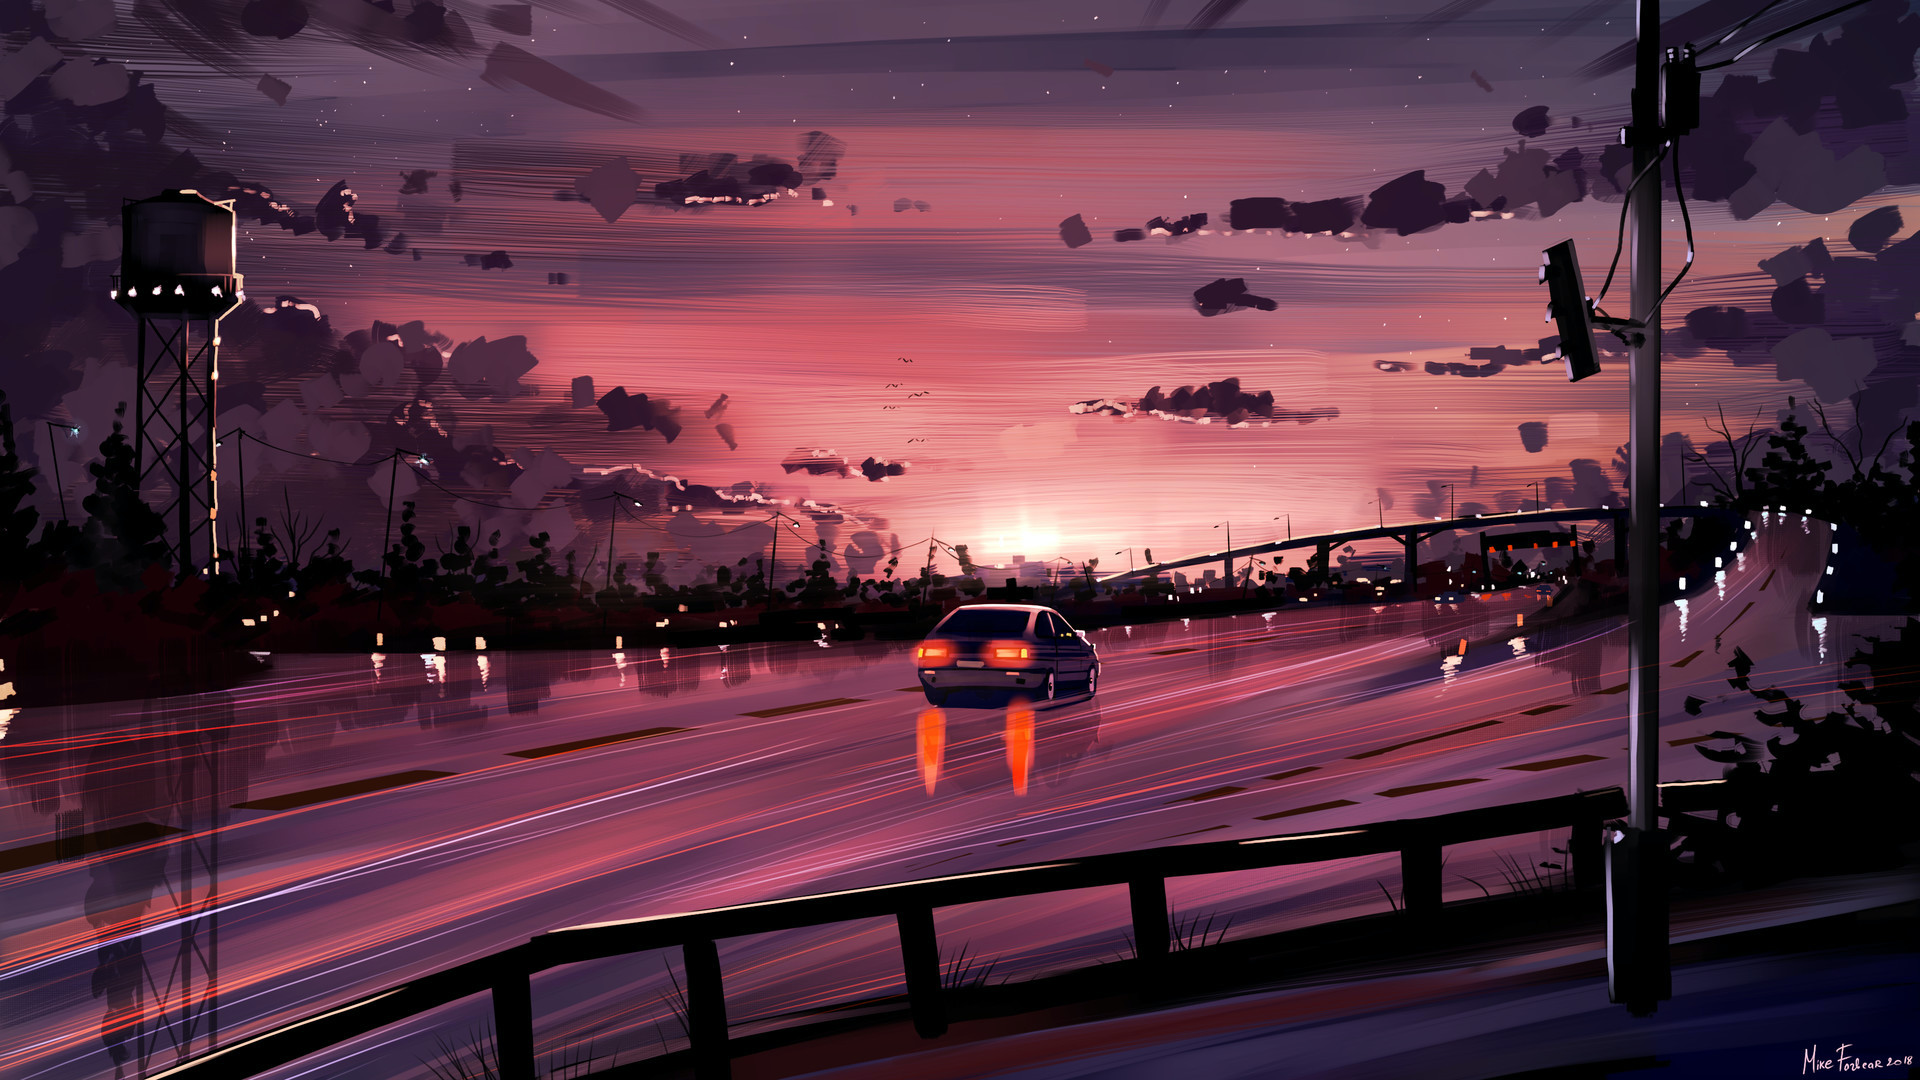
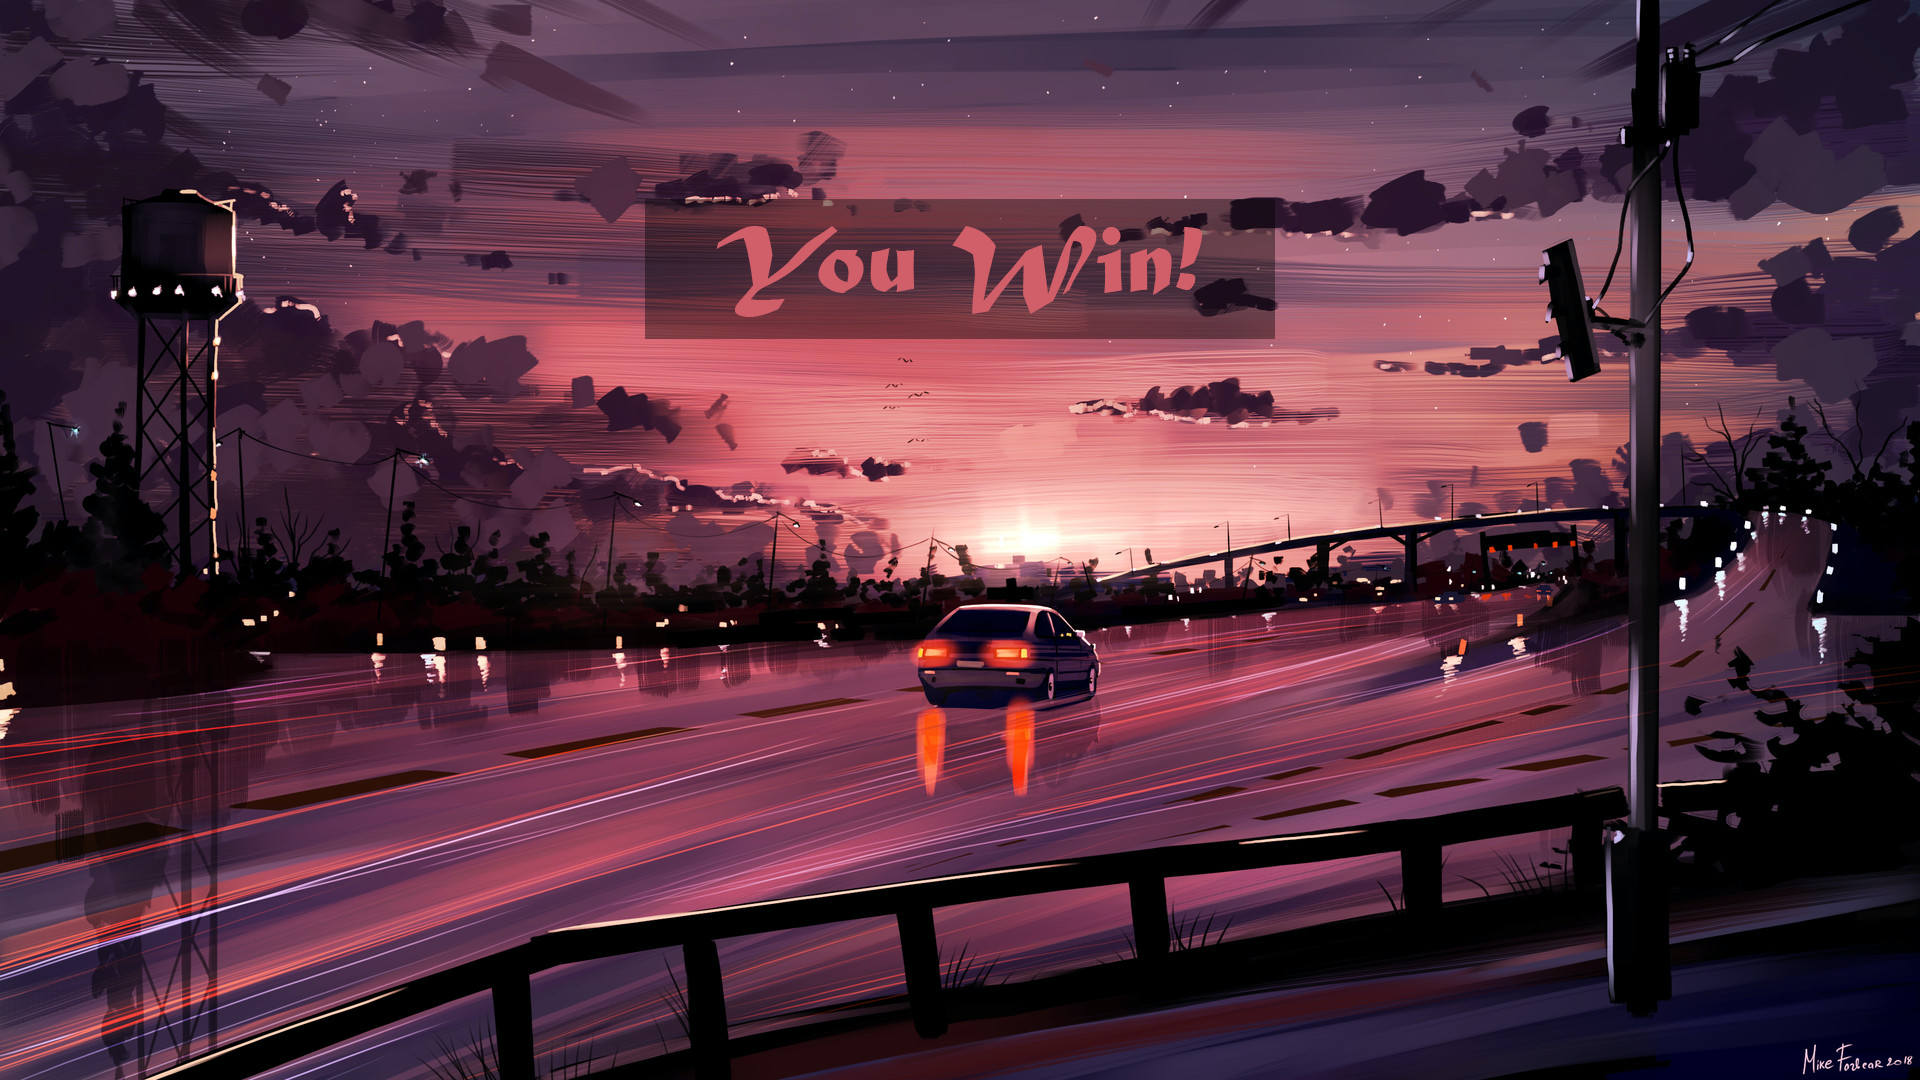
start of final project

Changed region(s): [[0.3125, 0.1833, 0.6875, 0.3361]]

diff --git a/w8/style.css b/w8/style.css
@@ -1,5 +1,7 @@
 @charset "UTF-8";
-@import url('https://fonts.googleapis.com/css2?family=Rubik+Moonrocks&display=swap');
+
+@import url('https://fonts.googleapis.com/css2?family=Grape+Nuts&display=swap');
+
 html{
     margin:0;
 }
@@ -9,40 +11,54 @@ body{
     display:flex;
     flex-direction: row;
     justify-content: center;
-    align-items: flex-start;
-    background-image:url(images/macho.webp);
-    background-repeat:no-repeat;
+    background-image: url(images/grassyBackground.png);
     background-size: 100%;
+    background-repeat: no-repeat;
 }
+
+div{
+    border-width: 2px;
+    border-color: black;
+    border-style: solid;
+
+    padding-top: 10px;
+    padding-bottom: 10px;
+    padding-left: 10px;
+    padding-right: 10px;
+
+    margin: 20px;
+}
+
 #main{
-    background-color:#ffff00;
-    color:rgb(255, 137, 2);
-    width:950px;
-    padding:20px;
+    background-color: whitesmoke;
+    color: black;
+    width: 1000px;
 }
+
 #header{
-    background-color:aqua;
+    background-color: lightgreen;
+    color: black;
 }
 #nav{
-    background-color:lime;
-    display:flex;
-    justify-content:center;
-    background-image:url(images/macho.webp);
-    
+    background-color: lightskyblue;
+    color: black;
 }
 #content{
-    background-color:blue;
+    background-color: wheat;
+    background-image: url(images/grass.png);
+    color: black;
+    display:flex;
 }
-
 #footer{
-    background-color:aqua;
+    background-color: rgb(255, 255, 109);
+    color: black;
 }
-
 a{
+    display:flex;
     display:block;
-    margin-left:10px;
-    margin-right:10px;
-    background-color:bisque;
+    margin-left: 10px;
+    margin-right: 10px;
+    background-color: bisque;
     padding:10px;
     border-radius:10px;
 }
@@ -50,27 +66,21 @@ a:link{
     color:black;
 }
 a:visited{
-    color:black;
+    color:white;
 }
 a:hover{
-    color:cornflowerblue;
-    background-color:brown;
+    color:limegreen;
 }
 a:active{
-    color:cornflowerblue;
+    color:red;
 }
 
-h1{
+h2{
     color:black;
-    text-decoration:underline;
+    text-decoration: underline;
     font-size:36px;
     font-weight:normal;
-    font-style:italic;
-    font-family: 'Rubik Moonrocks', cursive;
-}
-
-canvas{
-    //background-image:url(images/road.png);
+    font-family: 'Grape Nuts', cursive;
 }
 
 .graphic {

diff --git a/w8/index.html b/w8/index.html
@@ -1,33 +1,40 @@
 <!doctype html>
 <html lang="en">
     <head>
-        <title>Week 4 Canvas</title>
+        <title>Week 8-10 Final Project</title>
         <meta charset="UTF-8">
-        <meta name="author" content="Jay Aguiar">
-        <meta name="Description" content="In class work">
+        <meta name="author" content="Jonathan Monteiro">
+        <meta name="Description" content="Final Project for HTML">
         <link rel="stylesheet" href="style.css">
     </head>
     <body>
         <div id="main">
+
             <div id="header">
-                <h1>Week 2</h1>
+                <h1>Pokemon Battle Simulator!</h1>
             </div>
-            <!--End of header-->
-            <div id="nav">
-            </div>
-            <!--End of nav-->
+
             <div id="content">
                 <canvas width="950" height="512"></canvas>
             </div>
-            <!--End of content-->
-            <div id="footer">
-                &copy;2022 Aguiar 
-            </div>
-            <!--End of footer-->   
+
         </div>
-         <img src="images/car.png" alt="car" id="car" class="graphic">
+
+        <!-- use this to let the code find the images <img src="" alt="" id="" class="graphic"> -->
+
+        <img src="images/pokeball.png" alt="pokeball button" id="pokeball" class="graphic">
+
+        <!-- These are all of the pokemon sprites-->
+        <img src="pokemon/tepig.png" alt="tepig (ai)" id="tepig_ai" class="graphic">
+        <img src="pokemon/tepigBack.png" alt="tepig (player)" id="tepig_p1" class="graphic">
+
+        <img src="pokemon/snivy.png" alt="snivy (ai)" id="snivy_ai" class="graphic">
+        <img src="pokemon/snivyBack.png" alt="snivy (player)" id="snivy_p1" class="graphic">
+
+        <img src="pokemon/oshawatt.png" alt="oshawatt (ai)" id="oshawatt_ai" class="graphic">
+        <img src="pokemon/oshawattBack.png" alt="oshawatt (player)" id="oshawatt_p1" class="graphic">
+
         <!--End of main-->
-        <script src="controls.js"></script>
         <script src="GameObject.js"></script>
         <script src="game.js"></script>
     </body>

diff --git a/w8/game.js b/w8/game.js
@@ -16,16 +16,19 @@ var buttons = [
     new GameObject()
 ]
 
-buttons[0].x = 100;
+buttons[0].x = 316;
 buttons[0].y = 300;
+buttons[0].img = document.querySelector(`#pokeball`);
 
-buttons[1].x = 300;
+buttons[1].x = 475;
 buttons[1].y = 300;
+buttons[1].img = document.querySelector(`#pokeball`);
 
-buttons[2].x = 500;
+buttons[2].x = 633;
 buttons[2].y = 300;
+buttons[2].img = document.querySelector(`#pokeball`);
 
-var state = game;
+var state = menu;
 
 c.addEventListener(`mousemove`, function(evt){
     var rect = c.getBoundingClientRect();
@@ -44,22 +47,19 @@ function main(e)
     state();
 }
 
+var p1;
+var ai;
+var result;
+var message;
+
 function menu()
 {
-
-}
-
-function game()
-{
-    var p1;
-    var ai;
-    var result;
-    var message = `Click Rock, Paper or Scissors`
+    message = `Choose a pokemon!`;
 
     var rps = [];
-        rps[0] = `Rock`;
-        rps[1] = `Paper`;
-        rps[2] = `Scissors`;
+        rps[0] = `Tepig`;
+        rps[1] = `Oshawatt`;
+        rps[2] = `Snivy`;
     
     for(var i=0; i < buttons.length; i++)
     {
@@ -101,9 +101,14 @@ function game()
             ctx.fillText(message, c.width/2, 100);
     ctx.restore();
 
-    buttons[0].drawRect();
-    buttons[1].drawRect();
-    buttons[2].drawRect();
+    buttons[0].drawImg();
+    buttons[1].drawImg();
+    buttons[2].drawImg();
+}
+
+function game()
+{
+    
 }
 
 function win()

diff --git a/w6/game.js b/w6/game.js
@@ -36,6 +36,21 @@ var fuelText = new GameObject();
 var finishLine = new GameObject();
 var powerup = new GameObject();
 
+var gameOver = new GameObject();
+gameOver.w = c.width;
+gameOver.h = c.height;
+gameOver.img = document.querySelector(`#gameEndScreen`);
+
+
+var gameWon = new GameObject();
+gameWon.w = c.width;
+gameWon.h = c.height;
+gameWon.img = document.querySelector(`#winScreen`);
+
+var gameMenu = new GameObject();
+gameMenu.w = c.width;
+gameMenu.h = c.height;
+gameMenu.img = document.querySelector(`#menuScreen`);
 
 //Stores the name of the function I want to execute.
 var play = menu;
@@ -43,6 +58,7 @@ var play = menu;
 //Starts the game and sets up each object's starting values
 function menu()
 {
+    gameMenu.drawImg();
     ctx.save();
         ctx.textAlign = `center`;
         ctx.fillText(`Press Space to Start`, c.width*.5, c.height*.5)
@@ -124,7 +140,7 @@ function menu()
 //Is used when you lose
 function lose()
 {
-    drawImg();
+    gameOver.drawImg();
     ctx.save();
         ctx.textAlign = `center`;
         ctx.fillText(`You Lose!`, c.width*.5, c.height*.5)
@@ -143,6 +159,7 @@ function lose()
 //Is used when you lose
 function win()
 {
+    gameWon.drawImg();
     ctx.save();
         ctx.textAlign = `center`;
         ctx.fillText(`You Win!`, c.width*.5, c.height*.5)

diff --git a/w8/GameObject.js b/w8/GameObject.js
@@ -16,16 +16,10 @@ class GameObject
         this.vy = 0;
 
         //this is the color
-        this.color = `hotpink`;
-
-        this.fuel = 100;
-
-        this.angle = 0;
-
-        this.force = 1;
+        this.color = `red`;
 
         //can be used to set a maximum value on something.
-        this.max = 1000;
+        this.hp = 100;
 
         this.img;
     }
@@ -44,6 +38,7 @@ class GameObject
         this.x += this.vx;
         this.y += this.vy;
     }
+
     //draws a rectangle
     drawRect()
     {
@@ -51,22 +46,6 @@ class GameObject
             ctx.fillStyle=this.color;
             ctx.translate(this.x, this.y);
             ctx.fillRect(0-this.w/2,0-this.h/2,this.w, this.h);
-        ctx.restore();
-    }
-
-    //draws a car
-    drawCar()
-    {   
-        ctx.save();
-            ctx.fillStyle=this.color;
-            this.drawRect();
-            ctx.fillStyle = `black`;
-            ctx.translate(this.x-this.w/3, this.y+this.h/2);
-            ctx.fillRect(0-10,0-10,20,20);
-        ctx.restore();
-        ctx.save();
-            ctx.translate(this.x+this.w/3, this.y+this.h/2);
-            ctx.fillRect(0-10,0-10,20,20);
         ctx.restore();
     }
 

diff --git a/w6/index.html b/w6/index.html
@@ -31,7 +31,9 @@
         <img src="images/FinishLine.png" alt="Finish Line" id="finishLine" class="graphic">
         <img src="images/FuelText.png" alt="Fuel Text Background" id="fuelText" class="graphic">
         <img src="images/gasCan.png" alt="Gas Can Icon" id="gas" class="graphic">
-        <img src="images/carCrash.png" alt="Game Over" id="gameEnd" class="graphic">
+        <img src="images/carCrash.png" alt="gameOverScreen" id="gameEndScreen" class="graphic">
+        <img src="images/menu.png" alt="Menu" id="menuScreen" class="graphic">
+        <img src="images/win.png" alt="Menu" id="winScreen" class="graphic">
 
         <!--End of main-->
         <script src="controls.js"></script>
